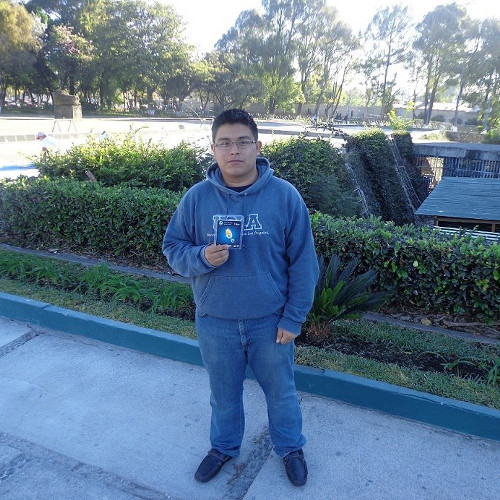
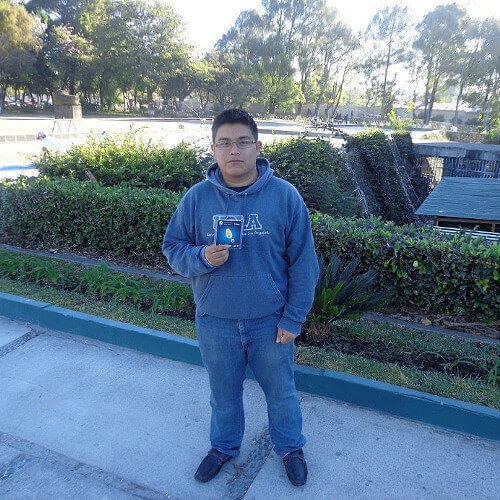
Se corrigio el titulo de las paginas, y se subio imagen de perfil optimizada.

diff --git a/acerca.html b/acerca.html
@@ -4,7 +4,7 @@
     <meta charset="UTF-8">
     <meta name="viewport" content="width=device-width, initial-scale=1.0">
     <meta http-equiv="X-UA-Compatible" content="ie=edge">
-    <title>mynlop|Contacto|</title>
+    <title>mynlop|Sobre mi|</title>
     <!--Import Google Icon Font-->
     <link href="http://fonts.googleapis.com/icon?family=Material+Icons" rel="stylesheet">
     <link href="https://fonts.googleapis.com/css?family=Uncial+Antiqua" rel="stylesheet">

diff --git a/proyectos.html b/proyectos.html
@@ -4,7 +4,7 @@
     <meta charset="UTF-8">
     <meta name="viewport" content="width=device-width, initial-scale=1.0">
     <meta http-equiv="X-UA-Compatible" content="ie=edge">
-    <title>mynlop</title>
+    <title>mynlop|Proyectos|</title>
     <!--Import Google Icon Font-->
     <link href="http://fonts.googleapis.com/icon?family=Material+Icons" rel="stylesheet">
     <link href="https://fonts.googleapis.com/css?family=Uncial+Antiqua" rel="stylesheet">
